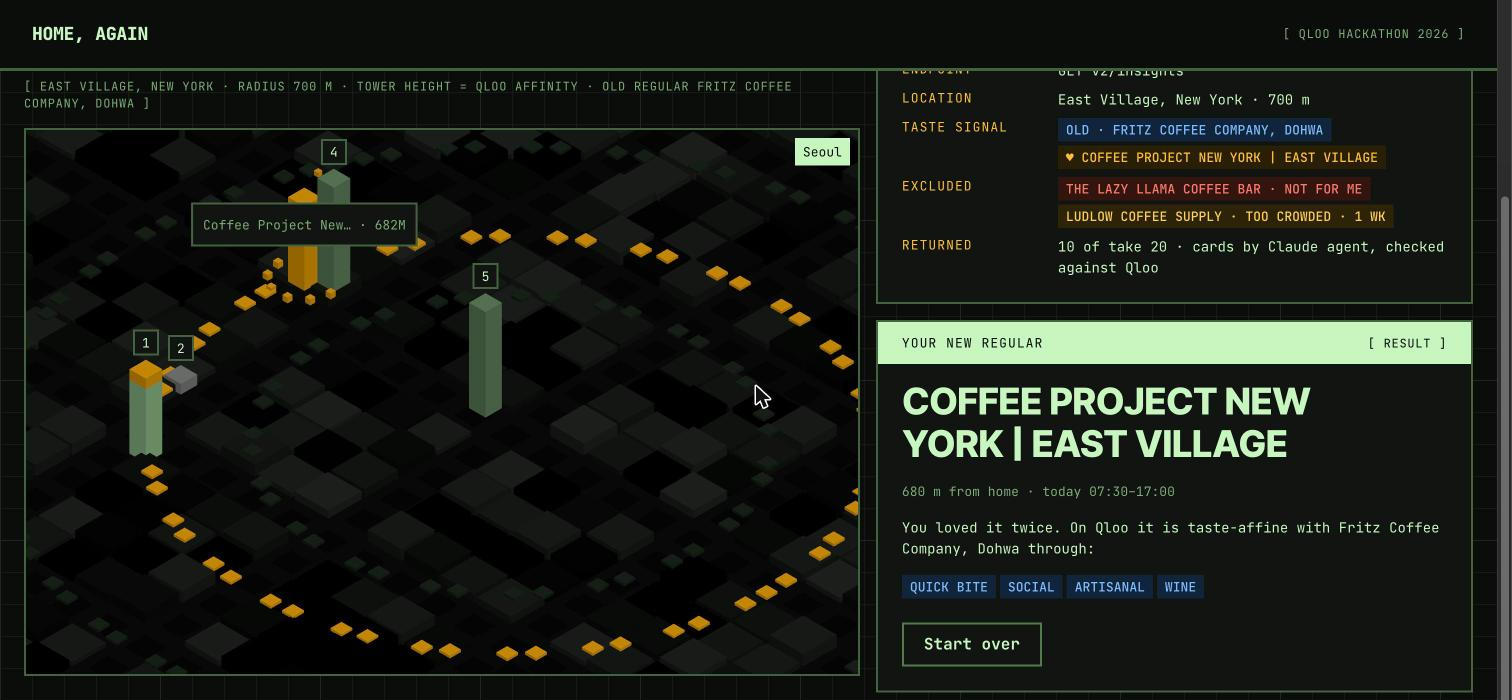
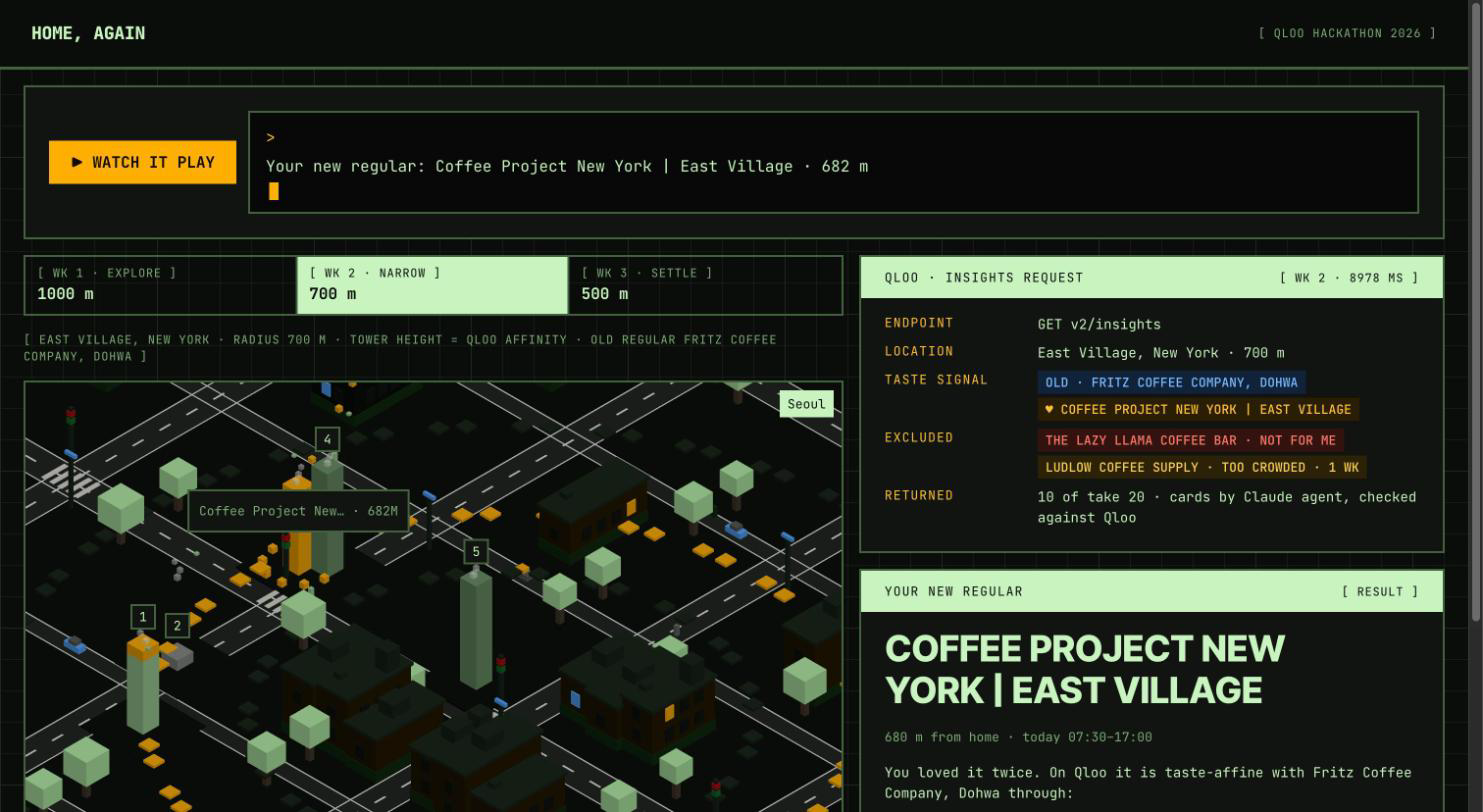
Show the living town in the README screenshot

diff --git a/README.md b/README.md
@@ -23,7 +23,7 @@
 
 Built for the Qloo Agentic Hackathon 2026.
 
-<p align="center"><img src="docs/screen-world.png" alt="The app mid-journey: a voxel East Village where each suggested café is a tower whose height is its Qloo affinity, beside the live Qloo request panel" width="830"></p>
+<p align="center"><img src="docs/screen-world.png" alt="The app after Watch it play: a voxel East Village with streets, traffic and brownstones, where each suggested café is a tower whose height is its Qloo affinity, beside the live Qloo request panel" width="830"></p>
 
 **Short on time?** Open the [live demo](https://home-again-gamma.vercel.app) and press **▶ Watch it play**. It runs a whole three-week journey on real Qloo data in under a minute and narrates each request.
 
